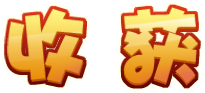
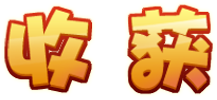
更新胜利收获特效

diff --git a/client/cocos2d-x-2.2.1/projects/Magpie/Resources/src/view/battleModule/battleEndLayer.js b/client/cocos2d-x-2.2.1/projects/Magpie/Resources/src/view/battleModule/battleEndLayer.js
@@ -39,10 +39,9 @@ var BattleEndLayer = cc.Layer.extend({
             this.addChild(this._ccbNode);
 
             label = this._ccbNode.controller.label;
+            var titleIcon = this._ccbNode.controller.titleIcon;
+            titleIcon.setTexture(lz.getTexture(main_scene_image.icon227));
 
-            var obtainSprite = cc.Sprite.create(main_scene_image.icon227);
-            obtainSprite.setPosition(this._battleEndLayerFit.obtainSpritePoint);
-            label.addChild(obtainSprite);
         } else {
             this._ccbNode = cc.BuilderReader.load(main_scene_image.uiEffect18, this);
             this._ccbNode.setPosition(this._battleEndLayerFit.failBgSpritePoint);
@@ -74,7 +73,7 @@ var BattleEndLayer = cc.Layer.extend({
             len = 3;
         }
 
-        var offsetY = 80;
+        var offsetY = 133;
         var rewardLabel;
         for (var i = 0; i < len; ++i) {
 
@@ -91,7 +90,7 @@ var BattleEndLayer = cc.Layer.extend({
                 rewardLabel.setPosition(cc.p(-30, offsetY));
             } else {
                 rewardLabel.setAnchorPoint(cc.p(0.5, 1));
-                rewardLabel.setPosition(cc.p(15, offsetY));
+                rewardLabel.setPosition(cc.p(0, offsetY));
             }
 
             label.addChild(rewardLabel);
@@ -105,7 +104,7 @@ var BattleEndLayer = cc.Layer.extend({
             this.end,
             this
         );
-        okItem.setPosition(this._battleEndLayerFit.okItemPoint);
+        okItem.setPosition(cc.p(85, -272));
 
         var replayItem = cc.MenuItemImage.create(
             main_scene_image.button67,
@@ -113,7 +112,7 @@ var BattleEndLayer = cc.Layer.extend({
             this.replay,
             this
         );
-        replayItem.setPosition(this._battleEndLayerFit.replayItemPoint);
+        replayItem.setPosition(cc.p(-85, -272));
 
         var goStrengthenLayerItem = cc.MenuItemImage.createWithIcon(
             main_scene_image.button27,

diff --git a/client/cocos2d-x-2.2.1/projects/Magpie/Resources/src/view/mainModule/passLayer.js b/client/cocos2d-x-2.2.1/projects/Magpie/Resources/src/view/mainModule/passLayer.js
@@ -446,23 +446,27 @@ var PassLayer = cc.Layer.extend({
         layer.addChild(bgSprite);
 
         var label = bgSprite.controller.label;
-
-        var obtainSprite = cc.Sprite.create(main_scene_image.icon226);
-        obtainSprite.setPosition(this._passLayerFit.obtainSpritePoint);
-        label.addChild(obtainSprite);
+        var titleIcon = bgSprite.controller.titleIcon;
+        titleIcon.setTexture(lz.getTexture(main_scene_image.icon226));
 
         var str = lz.getRewardString(reward);
         var len = str.length;
 
-        var point = this._passLayerFit.rewardLabelBasePoint;
+        var offsetY = 133;
+        //var point = this._passLayerFit.rewardLabelBasePoint;
         for (var i = 0; i < len; ++i) {
+            if (str[i].icon) {
+                var rewardIcon = cc.Sprite.create(main_scene_image[str[i].icon]);
+                rewardIcon.setPosition(cc.p(-60, offsetY - 10));
+                label.addChild(rewardIcon);
+            }
             var rewardLabel = cc.LabelTTF.create(str[i].str, "STHeitiTC-Medium", 20);
             rewardLabel.setColor(str[i].color);
-            rewardLabel.setAnchorPoint(cc.p(0.5, 1));
-            rewardLabel.setPosition(point);
+            rewardLabel.setAnchorPoint(cc.p(0, 1));
+            rewardLabel.setPosition(cc.p(-30, offsetY));
             label.addChild(rewardLabel);
-
-            point.y -= this._passLayerFit.rewardLabelOffsetY;
+            offsetY -= 53;
+            // point.y -= this._passLayerFit.rewardLabelOffsetY;
         }
 
         var okItem = cc.MenuItemImage.createWithIcon(

diff --git a/client/cocos2d-x-2.2.1/projects/Magpie/Resources/src/view/mainModule/cardListLayer.js b/client/cocos2d-x-2.2.1/projects/Magpie/Resources/src/view/mainModule/cardListLayer.js
@@ -165,7 +165,7 @@ var CardListLayer = cc.Layer.extend({
         this._tipLabel = cc.LabelTTF.create("", "STHeitiTC-Medium", 22);
         this._tipLabel.setAnchorPoint(cc.p(0, 0.5));
         this._tipLabel.setPosition(this._cardListLayerFit.tipLayerPoint);
-        //this.addChild(this._tipLabel);
+        this.addChild(this._tipLabel);
 
         this.setSelectType(selectType);
         this._excludeList.distinct();
@@ -605,7 +605,7 @@ var CardListLayer = cc.Layer.extend({
     _initCardUpgradeRetinue: function () {
         cc.log("CardListLayer _initCardUpgradeRetinue");
 
-        this._tipLabel.setString("已上阵的卡牌不可以作为从卡");
+        //this._tipLabel.setString("已上阵的卡牌不可以作为从卡");
 
         this._initRetinue();
 
@@ -645,7 +645,7 @@ var CardListLayer = cc.Layer.extend({
     _initCardEvolutionRetinue: function () {
         cc.log("CardListLayer _initCardEvolutionRetinue");
 
-        this._tipLabel.setString("星级进阶只能消耗相同星级的卡牌");
+        //this._tipLabel.setString("星级进阶只能消耗相同星级的卡牌");
 
         this._initRetinue();
 

diff --git a/client/cocos2d-x-2.2.1/projects/Magpie/Resources/src/view/mainModule/playerUpgradeLayer.js b/client/cocos2d-x-2.2.1/projects/Magpie/Resources/src/view/mainModule/playerUpgradeLayer.js
@@ -56,14 +56,19 @@ var PlayerUpgradeLayer = LazyLayer.extend({
         var str = lz.getRewardString(data.reward);
         var len = str.length;
 
-        var offsetY = 150;
+
 
         var lv = gameData.player.get("lv");
-        var lvLabel = cc.LabelTTF.create("等级：LV " + (lv - 1) + " -- LV " + lv, "STHeitiTC-Medium", 22);
-        lvLabel.setColor(cc.c3b(115, 255, 100));
-        lvLabel.setAnchorPoint(cc.p(0.5, 1));
-        lvLabel.setPosition(cc.p(0, offsetY));
-        label.addChild(lvLabel);
+
+        var lvLabel = ccbNode.controller.lvLabel;
+        lvLabel.setString(lv);
+//        var lvLabel = cc.LabelTTF.create("等级：LV " + (lv - 1) + " -- LV " + lv, "STHeitiTC-Medium", 22);
+//        lvLabel.setColor(cc.c3b(115, 255, 100));
+//        lvLabel.setAnchorPoint(cc.p(0.5, 1));
+//        lvLabel.setPosition(cc.p(0, offsetY));
+//        label.addChild(lvLabel);
+
+        var offsetY = 150;
 
         for (var i = 0; i < len; ++i) {
             offsetY -= 45;
